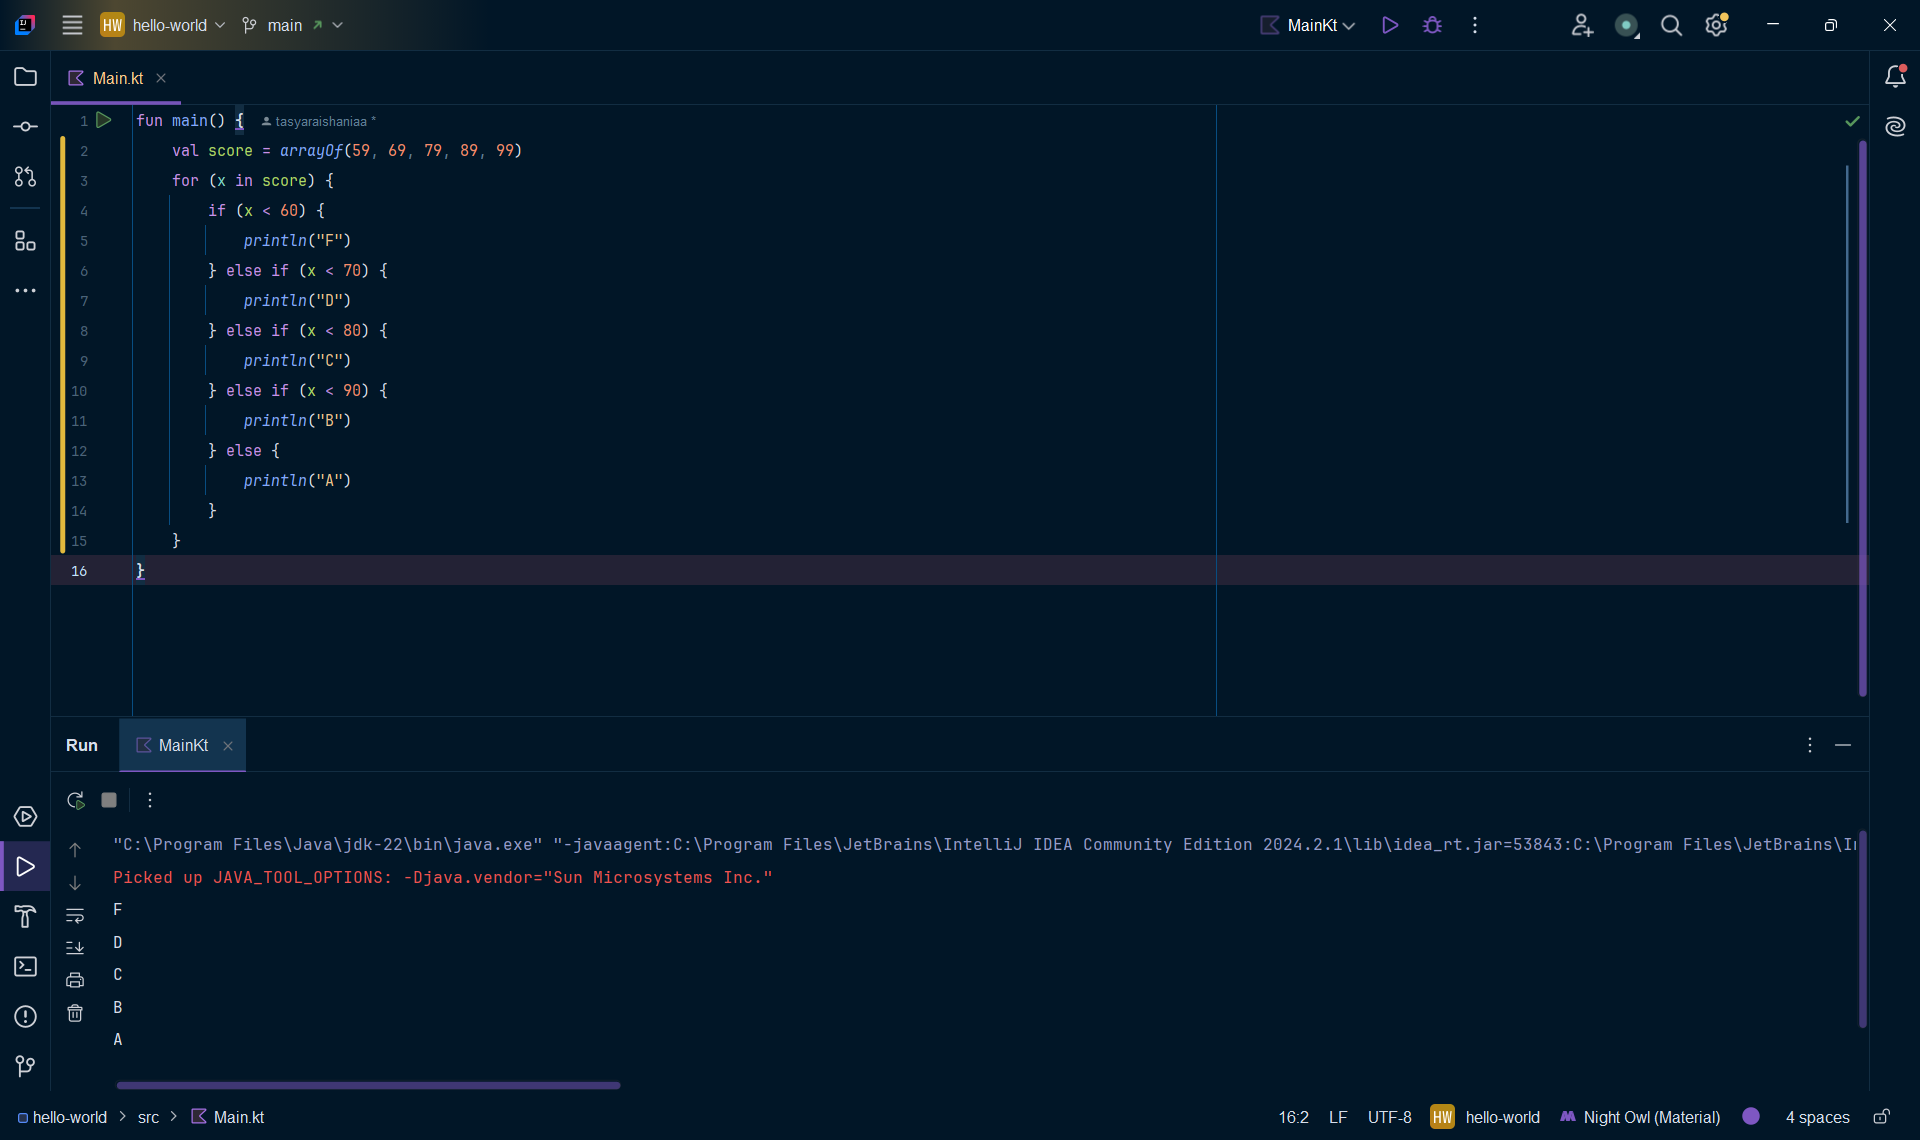
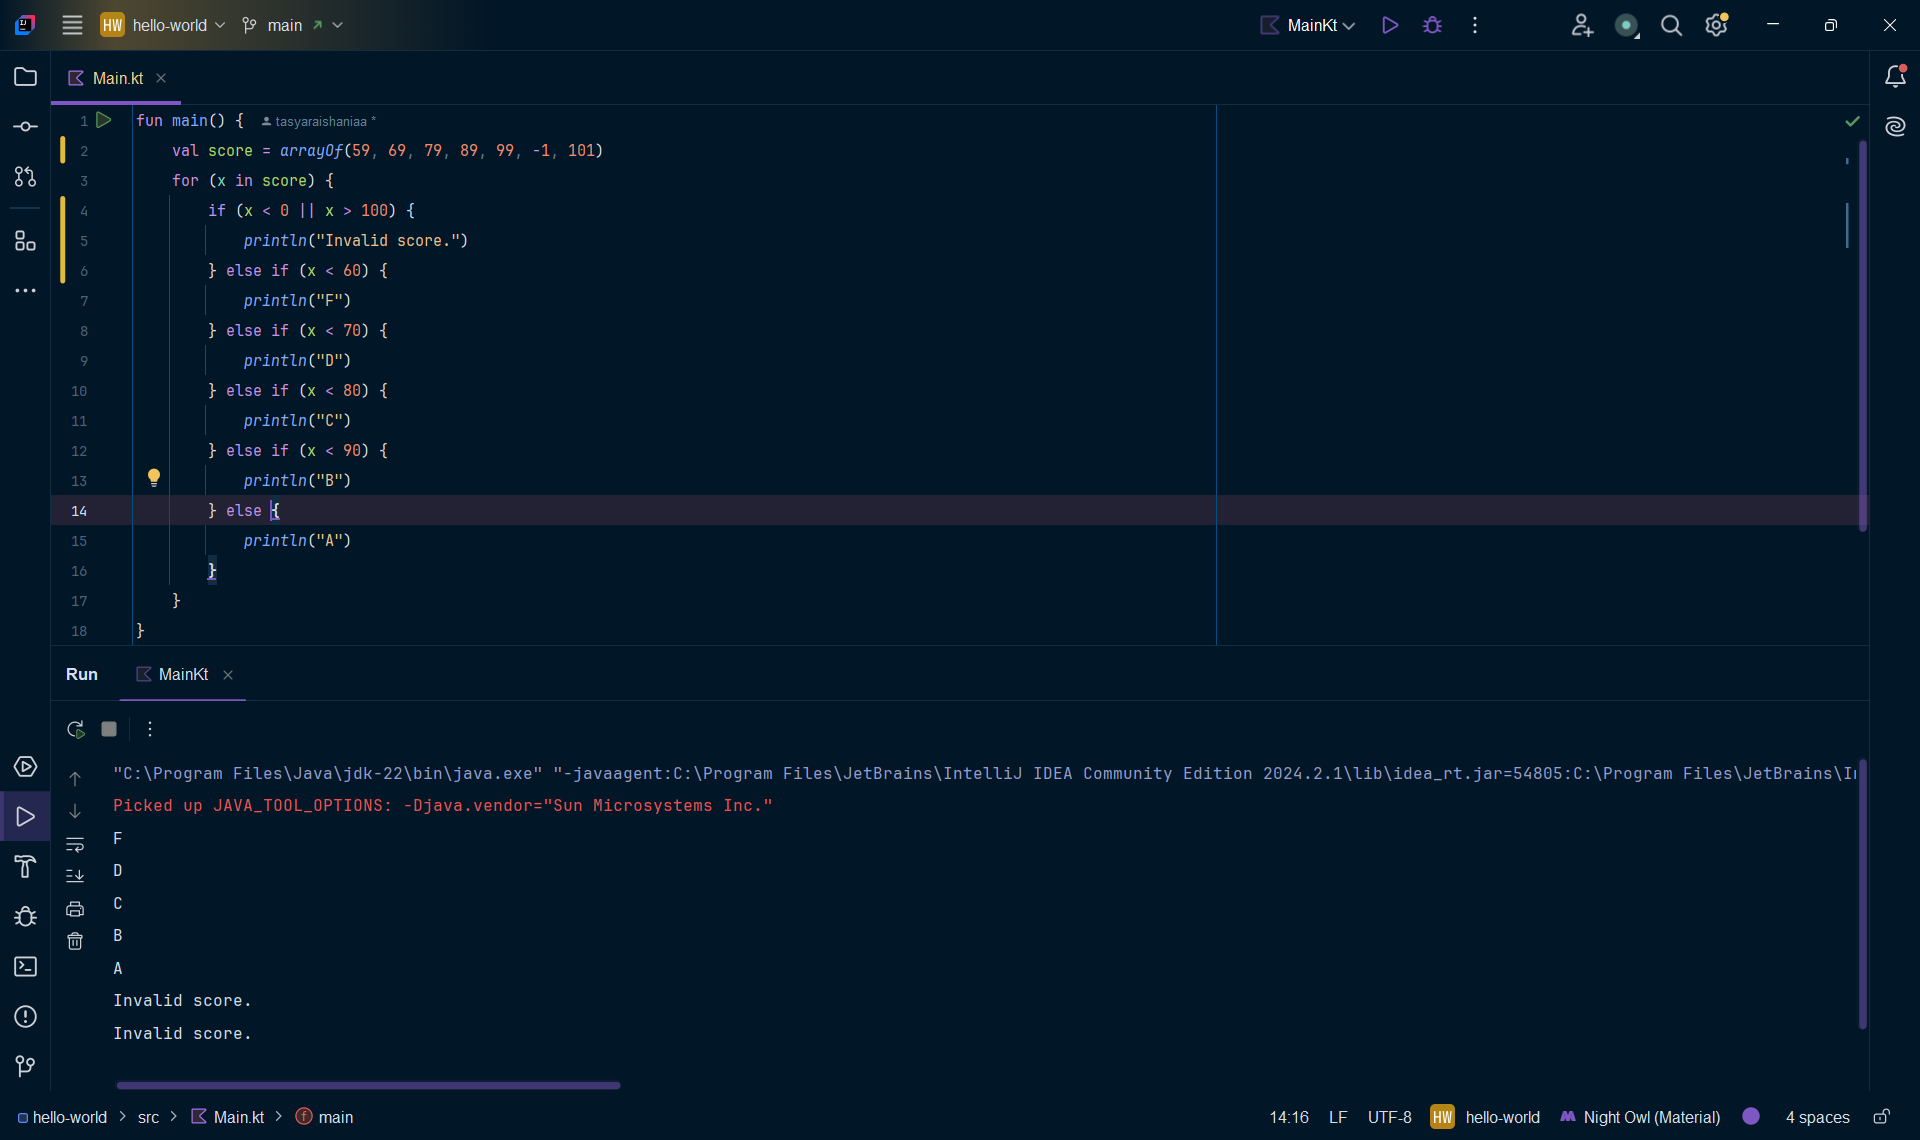
story-1

diff --git a/day-1/hello-world/src/Main.kt b/day-1/hello-world/src/Main.kt
@@ -1,7 +1,9 @@
 fun main() {
-    val score = arrayOf(59, 69, 79, 89, 99)
+    val score = arrayOf(59, 69, 79, 89, 99, -1, 101)
     for (x in score) {
-        if (x < 60) {
+        if (x < 0 || x > 100) {
+            println("Invalid score.")
+        } else if (x < 60) {
             println("F")
         } else if (x < 70) {
             println("D")
